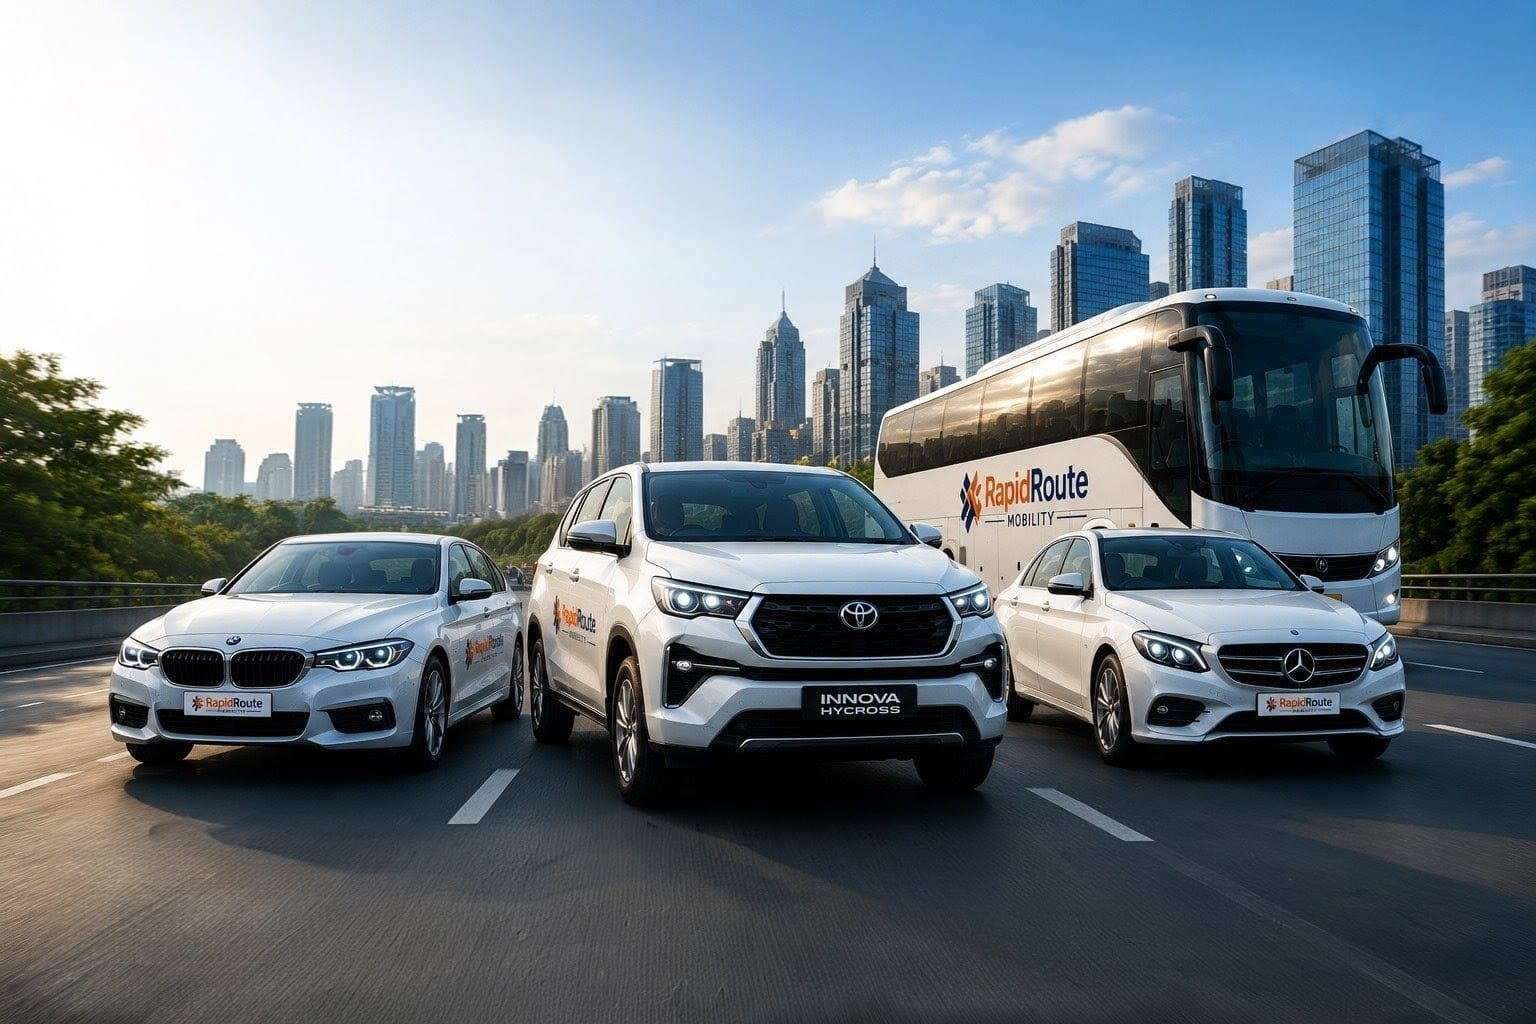
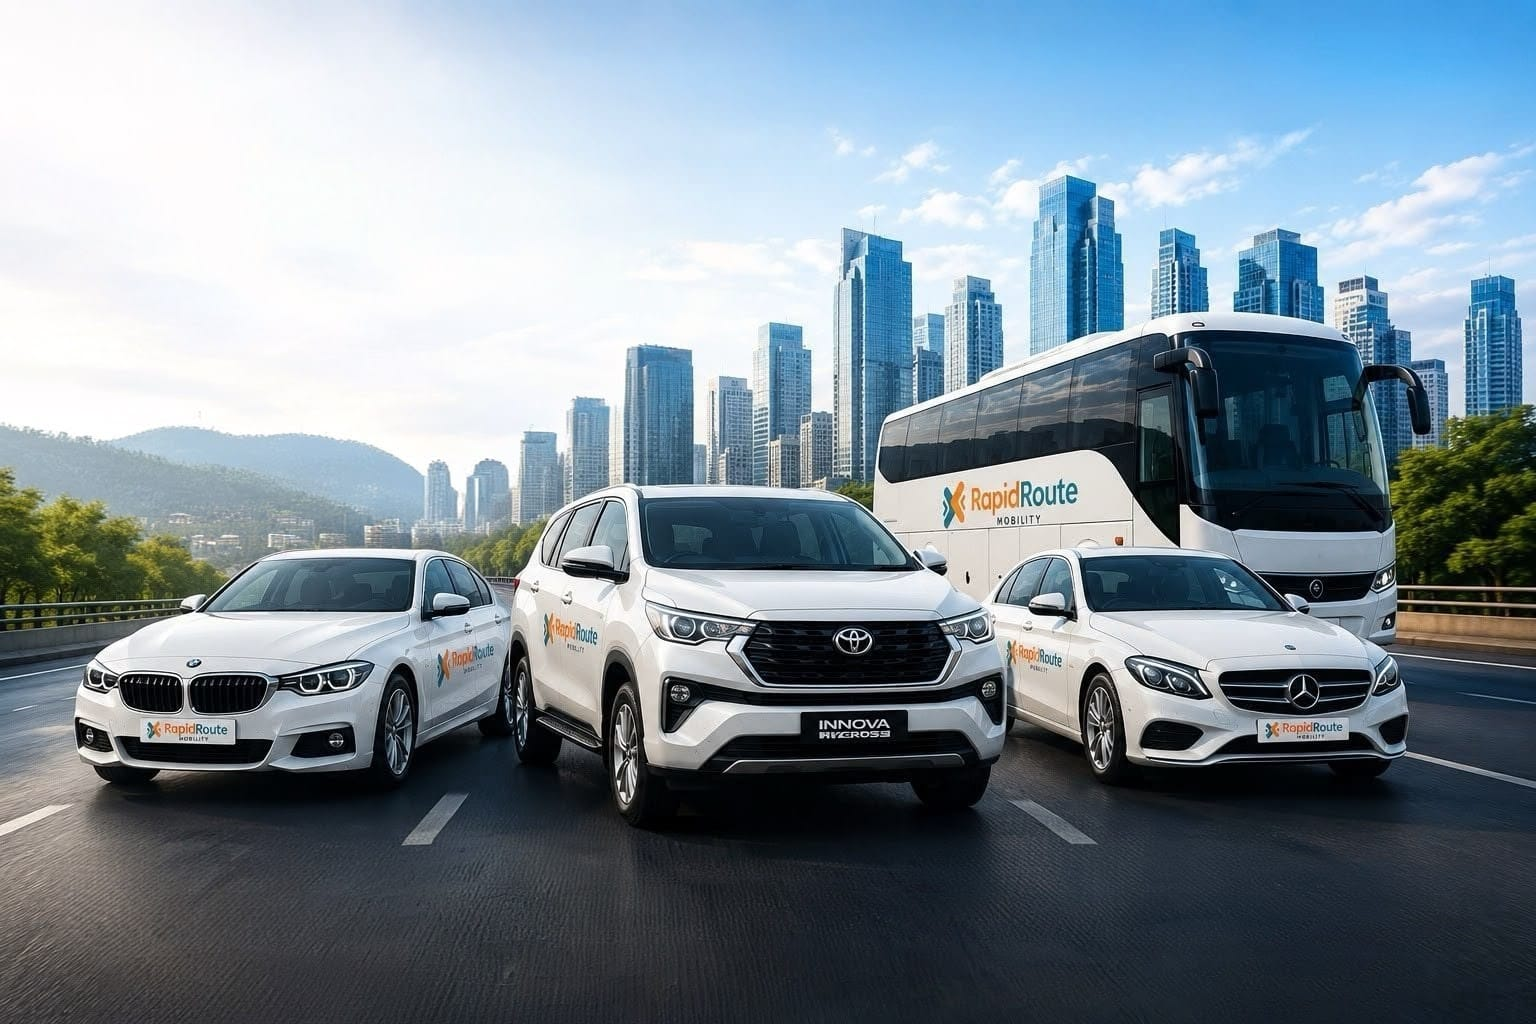
Fix

diff --git a/js/main.js b/js/main.js
@@ -26,23 +26,25 @@ function handleSubmit() {
 // Smooth nav highlight on scroll
 const sections = document.querySelectorAll("section[id], div[id]");
 const navLinks = document.querySelectorAll(".nav-links a");
+// Combine both scroll listeners into one
 window.addEventListener("scroll", () => {
-  let current = "";
-  sections.forEach((s) => {
-    if (window.scrollY >= s.offsetTop - 100) current = s.id;
-  });
-  navLinks.forEach((a) => {
-    a.style.color =
-      a.getAttribute("href") === "#" + current
-        ? "var(--orange-light)"
-        : "rgba(255,255,255,0.85)";
-  });
-});
-
-window.addEventListener("scroll", () => {
+  // Navbar background
   if (window.scrollY > 10) {
     navbar.classList.add("scrolled");
   } else {
     navbar.classList.remove("scrolled");
   }
+
+  // Active link
+  let current = "";
+  sections.forEach((s) => {
+    if (window.scrollY >= s.offsetTop - 100) current = s.id;
+  });
+
+  navLinks.forEach((a) => {
+    a.classList.remove("active");
+    if (a.getAttribute("href") === "#" + current) {
+      a.classList.add("active");
+    }
+  });
 });

diff --git a/index.html b/index.html
@@ -22,6 +22,18 @@
     />
     <link rel="stylesheet" href="css/styles.css" />
     <link rel="stylesheet" href="css/clients.css" />
+    <link
+      rel="icon"
+      type="image/png"
+      sizes="32x32"
+      href="./images/fav/favicon-32x32.png"
+    />
+    <link
+      rel="icon"
+      type="image/png"
+      sizes="16x16"
+      href="./images/fav/favicon-16x16.png"
+    />
     <link rel="stylesheet" href="css/service.css" />
     <script
       type="text/javascript"
@@ -31,7 +43,7 @@
   <body>
     <nav id="navbar">
       <a class="nav-logo" href="#home">
-        <img src="./images/logo-with-name.png" alt="RapidRoute Mobility" />
+        <img src="./images/logo.png" alt="RapidRoute Mobility" />
       </a>
 
       <ul class="nav-links" id="nav-links">
@@ -343,7 +355,7 @@
                 <div class="service-card sv-blue">
                   <div class="service-img">
                     <img
-                      src="images/services/airport.png"
+                      src="images/services/airport.jpg"
                       alt="Airport Services"
                     />
                     <div class="service-badge">